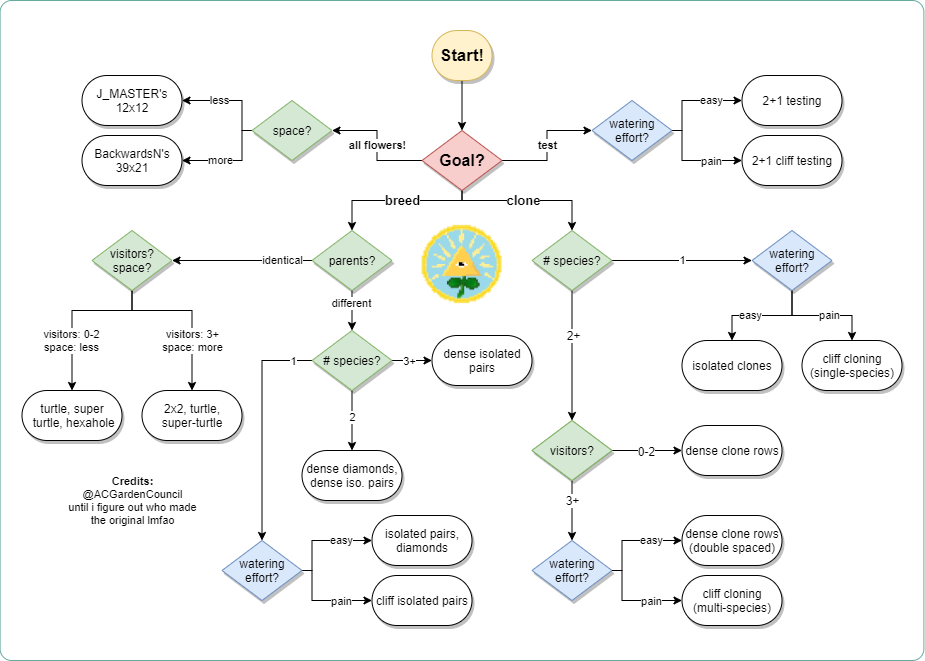
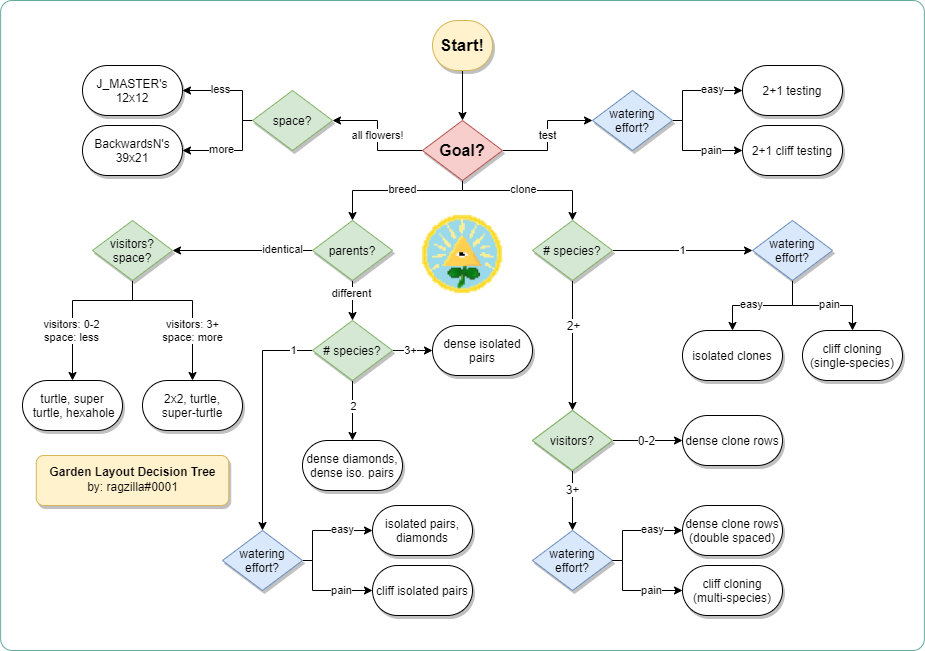
css first draft

diff --git a/acnh/garden_layouts.html b/acnh/garden_layouts.html
@@ -16,13 +16,28 @@
 
     <meta charset="UTF-8" />
     <meta name="viewport" content="width=device-width, initial-scale=1.0" />
+    <link rel="stylesheet" href="../styles/styles.css" />
     <title>Garden Layouts</title>
+    
 </head>
 
 <body>
+
+    <div id="page-container">
+        <div id="header">
+          yue's acnh stuff
+        </div>
+  
+        <div id="navbar">
+          <a href="../index.html" class="navlink">home</a>
+          <!--<a href="../products/index.html" class="navlink">links</a>-->
+        </div>
+
+        <div id="content-container">
+
     <a name="top"></a>
     <h1>garden layouts</h1>
-    <p><a href="/">return home</a></p>
+    <p><a href="index.html">return home</a></p>
 
     <img src="/img/layouts/layouts.png" alt="layout_flowchart"/><br />
 
@@ -37,15 +52,14 @@
         </li>
         <li>
             Testing is for when you need to check a flower's genotype. It is mainly
-            used for Folklore and Paleh methods for
-            <a href="bluerose.html">blue rose breeding.</a>
+            used for Folklore/Paleh <a href="bluerose.html">blue rose methods</a>.
         </li>
     </ul>
 
     <h2>contents</h2>
-
+    <div id="contents-container">
     <p>
-        <b>Everything Layouts</b><br>
+        <b>All Flowers Layouts</b><br>
         - <a href="#12x12">12x12</a><br>
         - <a href="#39x21">39x21</a>
     </p>
@@ -60,7 +74,6 @@
 
     <p>
         <b>Breeding Layouts [single-species, different parents]</b><br />
-        - <a href="#2x2_diff">2x2</a><br />
         - <a href="#isolated_pairs">isolated pairs</a><br />
         - <a href="#isolated_pairs_cliffs"> isolated pairs (cliff-assisted)</a><br />
         - <a href="#diamond">diamond</a>
@@ -73,7 +86,7 @@
     </p>
 
     <p>
-        <b>Cloning Layouts[single-species]</b><br />
+        <b>Cloning Layouts [single-species]</b><br />
         - <a href="#isolated_clones">isolated clones</a><br />
         - <a href="#cliff_clone_single">cliff cloning (single-species)</a>
     </p>
@@ -90,7 +103,7 @@
         - <a href="#testing">2+1 testing</a><br>
         - <a href="testing_cliff">2+1 cliff testing</a>
     </p>
-
+</div>
     <hr />
 
     <h1>Everything Layouts</h1>
@@ -134,11 +147,6 @@
     <hr />
 
     <h1>Breeding Layouts [different parents]</h1>
-
-    <a name="2x2_diff"></a>
-    <h2>2x2</h2>
-    <p><img src="../img/layouts/2x2_diff.PNG" /></p>
-
     <a name="isolated_pairs"></a>
     <h2>isolated pairs</h2>
     <p><img src="../img/layouts/isolated_pairs.PNG" /></p>
@@ -222,9 +230,10 @@
     </p>
     <ul>
         <li>
-            Dataminers: Aeter (@aiterusawato), Paleh, BackwardsN, Ninji (@_Ninji)
+            Dataminers: Aeter (@aiterusawato), Paleh, Ninji (@_Ninji)
         </li>
-        <li>Layouts: Chomp, Catobat, PCVXD, J_Master (@GigaRoboid)</li>
+        <li>Layouts: Chomp, Catobat, PCVXD, J_Master (@GigaRoboid), BackwardsN</li>
+        <li>Flowchart: Ragzilla (ragzilla#0001)</li>
     </ul>
     References:
     <ul>
@@ -235,7 +244,11 @@
     <ul>
         <li>Aeon's Flower Simulator</li>
         <li>Nubleh's Flower Planner</li>
-    </ul>
+    </ul></div>
+
+    <img src="../img/footer.png">
+    <div id="footer-container">test</div>
+</div>
 </body>
 
 </html>

diff --git a/styles/styles.css b/styles/styles.css
@@ -1,0 +1,160 @@
+@import url('https://fonts.googleapis.com/css2?family=Nunito&family=Raleway:wght@100&display=swap');   
+
+html,
+body,
+div,
+span,
+applet,
+object,
+iframe,
+h1,
+h2,
+h3,
+h4,
+h5,
+h6,
+p,
+blockquote,
+pre,
+a,
+abbr,
+acronym,
+address,
+big,
+cite,
+code,
+del,
+dfn,
+em,
+font,
+img,
+ins,
+kbd,
+q,
+s,
+samp,
+small,
+strike,
+strong,
+sub,
+sup,
+tt,
+var,
+b,
+u,
+i,
+center,
+dl,
+dt,
+dd,
+ol,
+ul,
+li,
+fieldset,
+form,
+label,
+legend,
+caption {
+  margin: 0;
+  padding: 0;
+  border: 0;
+  outline: 0;
+  vertical-align: baseline;
+  background: transparent;
+}
+
+body {
+  background-image: url("/img/bg.png");
+  background-repeat: repeat center center fixed;
+    background-color: #ffffff;
+    color: #3e240e;
+    font-family: "Nunito";
+    font-size: 16px;
+}
+
+  #header {
+    height: 150px;
+    background-color: #ade4e2;
+    display: flex;
+    align-items: center;
+    justify-content: center;
+    padding: 30px;
+    box-sizing: border-box;
+    font-family: "Nunito";
+    font-size: 48px;
+    color: #3e240e;
+  }
+
+  #navbar {
+    background-color: #ffe7a7;
+    
+    height: 30px;
+    padding-left: 10px;
+    padding-right: 10px;
+  }
+
+  .navlink {
+    display: inline-block;
+    height: 100%;
+    box-sizing: border-box;
+    padding: 5px;
+    font-weight: bold;
+    color: #3e240e;
+    text-decoration: none;
+  }
+
+  #content-container {
+    padding: 30px;
+    padding-bottom: 50px;
+  }
+
+  #contents-container {
+    background-color: #FFF;
+    border:1px solid #3e240e;
+    padding: 5px;
+    margin-top: 15px;
+margin-bottom: 15px;
+font-size:14px;
+width:450px;
+    
+  }
+  
+  p {
+    padding-top: 5px;
+    padding-bottom: 20px;
+  }
+  
+  h1 {
+    font-size: 36px;
+    color: #f384b8;
+    margin-bottom: 15px;
+    font-family: 'Nunito', sans-serif;
+    font-weight: normal;
+  }
+
+  
+  #page-container {
+    width: 100%;
+    background-color: WHITE;
+    margin-left: auto;
+    margin-right: auto;
+    min-height: 100vh;
+    box-shadow: 0px 0px 19px 3px rgba(166,138,138,0.67);
+    width: 990px;
+  }
+
+  #content-container {
+    padding: 30px;
+    padding-bottom: 50px;
+  }
+
+  #footer-container {
+    background-color: #efdcab;
+    padding: 30px;
+    padding-bottom: 50px;
+  }
+
+  #bc {
+    margin-bottom: 20px;
+    color: #456990;
+  }

diff --git a/acnh/index.html b/acnh/index.html
@@ -21,9 +21,11 @@
   <p><a href="/acnh/friendship.html">[EN] Friendship Handbook</a></p>
   <p><a href="/acnh/garden.html">[EN] Garden Guides</a></p>
   <p><a href="/acnh/bluerose.html">[EN] Blue Rose Methods</a></p>
+  <p><a href="/acnh/garden_layouts.html">[EN] Garden Layouts</a></p>
+  
   <hr>
   <p>contact me if you want translations of my guide to your language!</p>
-  <!-- <p><a href="/acnh/friendship_de.html">[DE] Freundschafs-Handbuch</a></p> -->
+  <p><a href="/acnh/friendship_de.html">[DE] Freundschafs-Handbuch</a></p>
   <p><a href="/acnh/friendship_jp.html">[JP] フレンドシップ　ガイド</a></p>
   <p><a href="/acnh/garden_jp.html">[JP] 花の交配表一覧</a></p>
   
